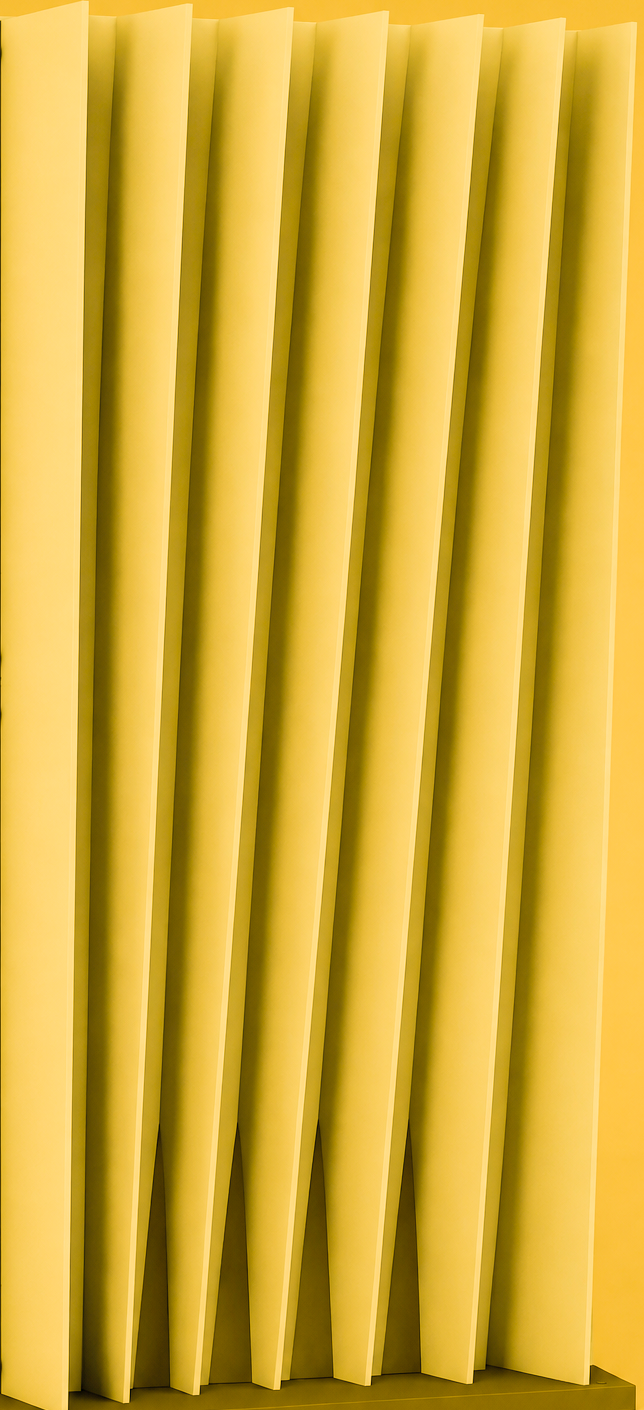
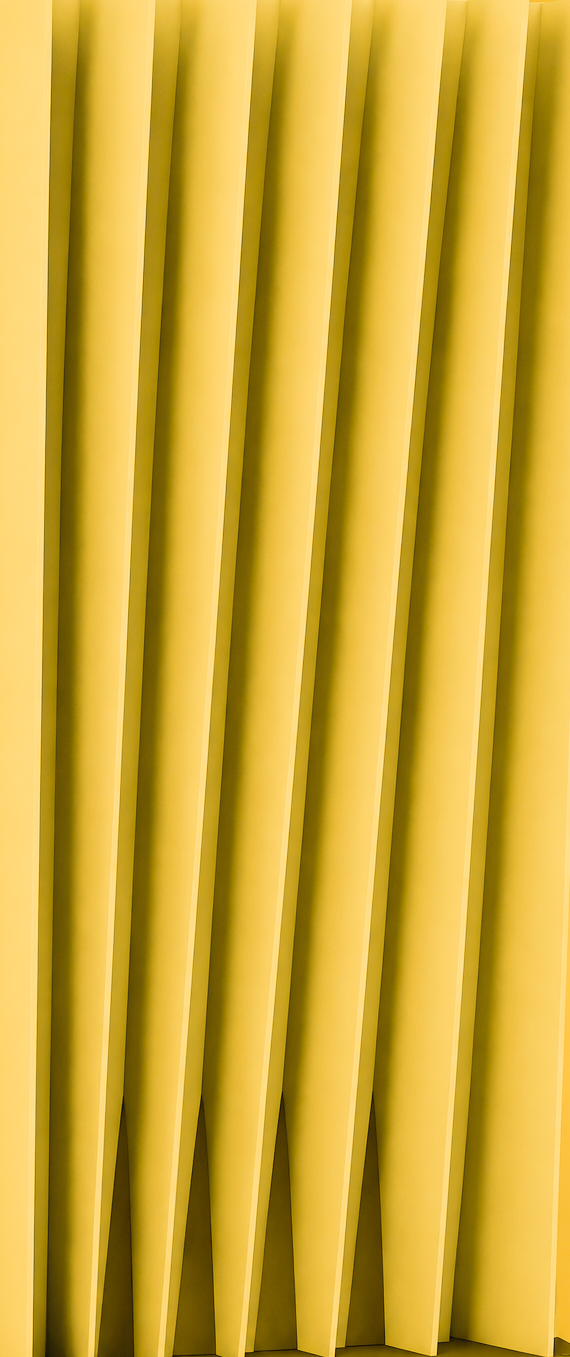
change products

diff --git a/src/app/room-designer/RoomScene.tsx b/src/app/room-designer/RoomScene.tsx
@@ -1,10 +1,11 @@
 "use client";
 
-import { useEffect, useRef } from "react";
+import { useEffect, useRef, useState } from "react";
 import * as THREE from "three";
 import { OrbitControls } from "three/examples/jsm/controls/OrbitControls.js";
 import { SparkRenderer, SplatMesh } from "@sparkjsdev/spark";
 import { PANEL_SIZE_INCHES } from "@/data/wallProducts";
+import CalibrationPanel from "./CalibrationPanel";
 import styles from "./page.module.css";
 
 // Public indoor room (Mip-NeRF 360 "room" scene, 51 MB). Loaded from the HF CDN
@@ -18,8 +19,22 @@ const SPLAT_PRESCALE = 100;
 // Benchmark scenes rarely import Y-up. Tune these once you can see the room.
 const SPLAT_ROTATION = new THREE.Euler(Math.PI, 0, 0);
 
+type SceneHandle = {
+  renderer: THREE.WebGLRenderer;
+  scene: THREE.Scene;
+  camera: THREE.PerspectiveCamera;
+  controls: OrbitControls;
+  room: SplatMesh;
+  panel: THREE.Mesh;
+};
+
 export default function RoomScene() {
   const containerRef = useRef<HTMLDivElement>(null);
+  const sceneRef = useRef<SceneHandle | null>(null);
+  const [isPicking, setIsPicking] = useState(false);
+  const [pickedCount, setPickedCount] = useState(0);
+  const [distanceInput, setDistanceInput] = useState("");
+  const [inchesPerUnit, setInchesPerUnit] = useState<number | null>(null);
 
   useEffect(() => {
     const container = containerRef.current;
@@ -92,6 +107,8 @@ export default function RoomScene() {
     const resizeObserver = new ResizeObserver(onResize);
     resizeObserver.observe(container);
 
+    sceneRef.current = { renderer, scene, camera, controls, room, panel };
+
     // --- Loop ---
     renderer.setAnimationLoop(() => {
       controls.update();
@@ -99,6 +116,7 @@ export default function RoomScene() {
     });
 
     return () => {
+      sceneRef.current = null;
       renderer.setAnimationLoop(null);
       resizeObserver.disconnect();
       controls.dispose();
@@ -109,5 +127,19 @@ export default function RoomScene() {
     };
   }, []);
 
-  return <div ref={containerRef} className={styles.viewer} />;
+return (
+  <div className={styles.viewerWrap}>
+    <div ref={containerRef} className={styles.viewer} />
+    <CalibrationPanel
+      pickedCount={pickedCount}
+      isPicking={isPicking}
+      distanceInput={distanceInput}
+      onDistanceChange={setDistanceInput}
+      onStartPicking={() => setIsPicking(true)}
+      onApply={() => {}}
+      onReset={() => {}}
+      inchesPerUnit={inchesPerUnit}
+    />
+  </div>
+);
 }

diff --git a/src/app/room-designer/CalibrationPanel.tsx b/src/app/room-designer/CalibrationPanel.tsx
@@ -1,0 +1,90 @@
+"use client";
+
+import styles from "./page.module.css";
+
+type Props = {
+  /** How many points have been picked so far (0, 1, or 2). */
+  pickedCount: number;
+  isPicking: boolean;
+  distanceInput: string;
+  onDistanceChange: (value: string) => void;
+  onStartPicking: () => void;
+  onApply: () => void;
+  onReset: () => void;
+  /** Current scale, once calibrated. */
+  inchesPerUnit: number | null;
+};
+
+export default function CalibrationPanel({
+  pickedCount,
+  isPicking,
+  distanceInput,
+  onDistanceChange,
+  onStartPicking,
+  onApply,
+  onReset,
+  inchesPerUnit,
+}: Props) {
+  const canApply = pickedCount === 2 && Number(distanceInput) > 0;
+
+  return (
+    <div className={styles.panel}>
+      <p className={styles.panelTitle}>Scale calibration</p>
+
+      <p className={styles.panelHint}>
+        {isPicking
+          ? pickedCount === 0
+            ? "Click the first point in the room."
+            : pickedCount === 1
+              ? "Click the second point."
+              : "Two points set. Enter the real distance."
+          : "Pick two points a known distance apart to set real-world scale."}
+      </p>
+
+      <div className={styles.panelRow}>
+        <button
+          type="button"
+          className={styles.button}
+          onClick={onStartPicking}
+          disabled={isPicking}
+        >
+          {isPicking ? "Picking…" : "Pick two points"}
+        </button>
+        <button type="button" className={styles.buttonQuiet} onClick={onReset}>
+          Reset
+        </button>
+      </div>
+
+      <div className={styles.panelRow}>
+        <label className={styles.label} htmlFor="known-distance">
+          Real distance (inches)
+        </label>
+        <input
+          id="known-distance"
+          className={styles.input}
+          type="number"
+          min="0"
+          step="0.1"
+          value={distanceInput}
+          onChange={(e) => onDistanceChange(e.target.value)}
+          placeholder="e.g. 80"
+        />
+      </div>
+
+      <button
+        type="button"
+        className={styles.button}
+        onClick={onApply}
+        disabled={!canApply}
+      >
+        Apply scale
+      </button>
+
+      {inchesPerUnit !== null && (
+        <p className={styles.panelHint}>
+          1 splat unit = {inchesPerUnit.toFixed(3)} in
+        </p>
+      )}
+    </div>
+  );
+}

diff --git a/src/app/wall-designer/page.tsx b/src/app/wall-designer/page.tsx
@@ -2,7 +2,7 @@ import WallDesigner from "@/components/wall-designer/WallDesigner";
 import styles from "./page.module.css";
 
 export const metadata = {
-  title: "Wall Designer",
+  title: "ATOMIC Design Inc. Wall Designer",
 };
 
 export default function WallDesignerPage() {
@@ -10,9 +10,13 @@ export default function WallDesignerPage() {
     <main className={styles.main}>
       <div className={styles.intro}>
         <p className={styles.eyebrow}>Tool 02</p>
-        <h1 className={styles.title}>Modular Wall Designer</h1>
+        <h1 className={styles.title}>ATOMIC Modular Designer</h1>
         <p className={styles.lede}>
-          Size a wall, place panels, and preview the layout.
+         Pick your venue, size a wall, place panels, and preview the layout using{" "}
+        <a href="https://www.atomicdesign.tv" target="_blank" rel="noopener noreferrer">
+         Atomic Design Inc.
+        </a>{" "}
+         product.
         </p>
       </div>
       <WallDesigner />
